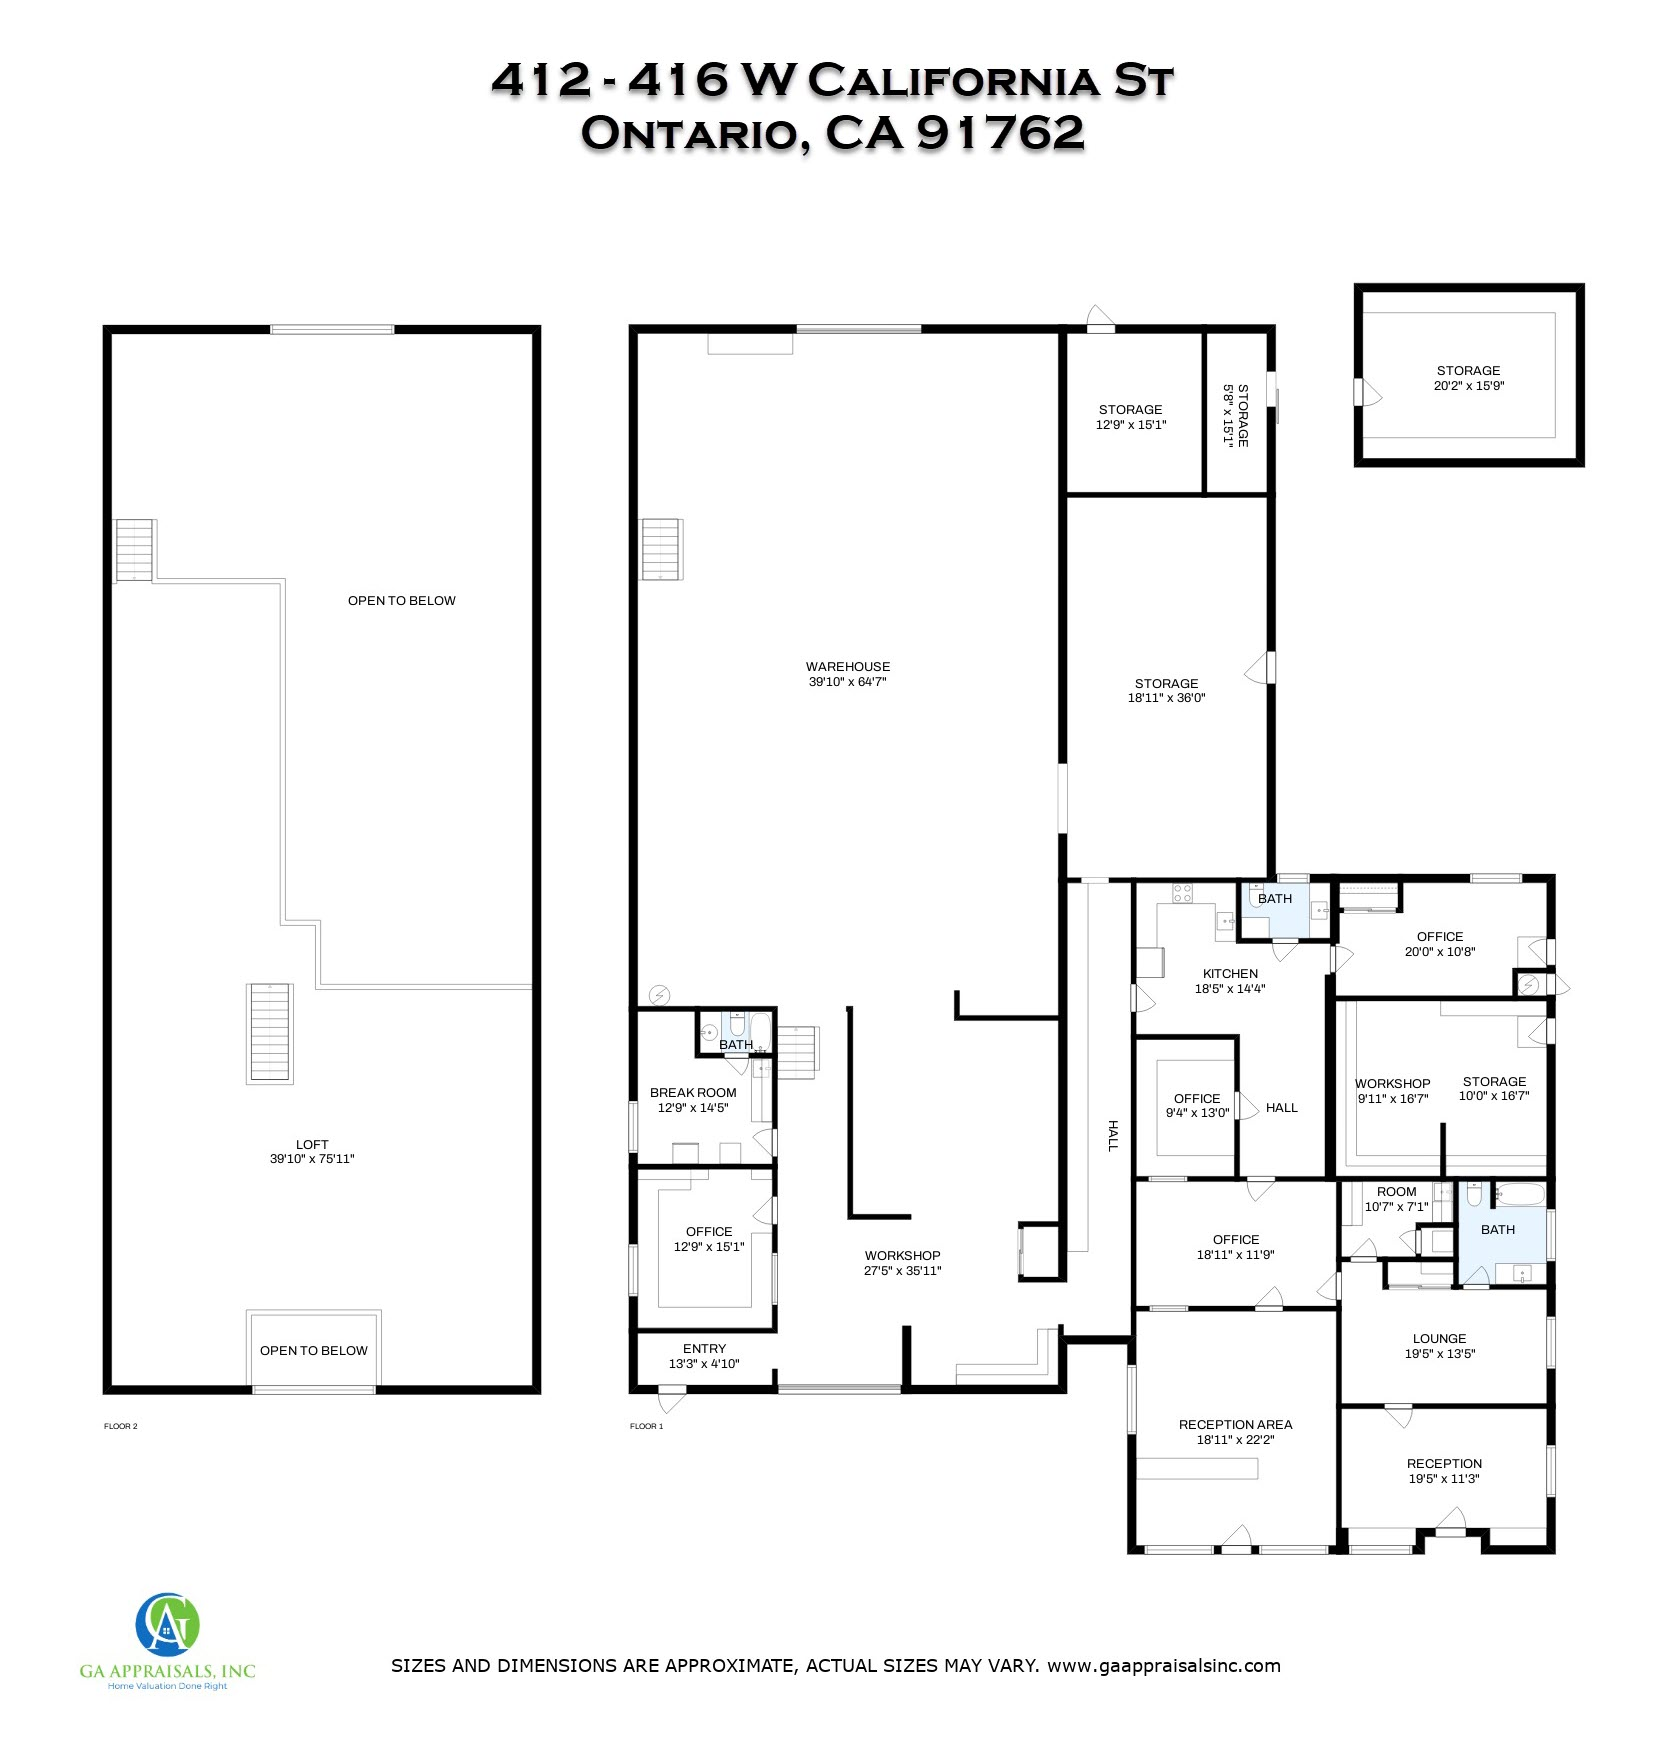
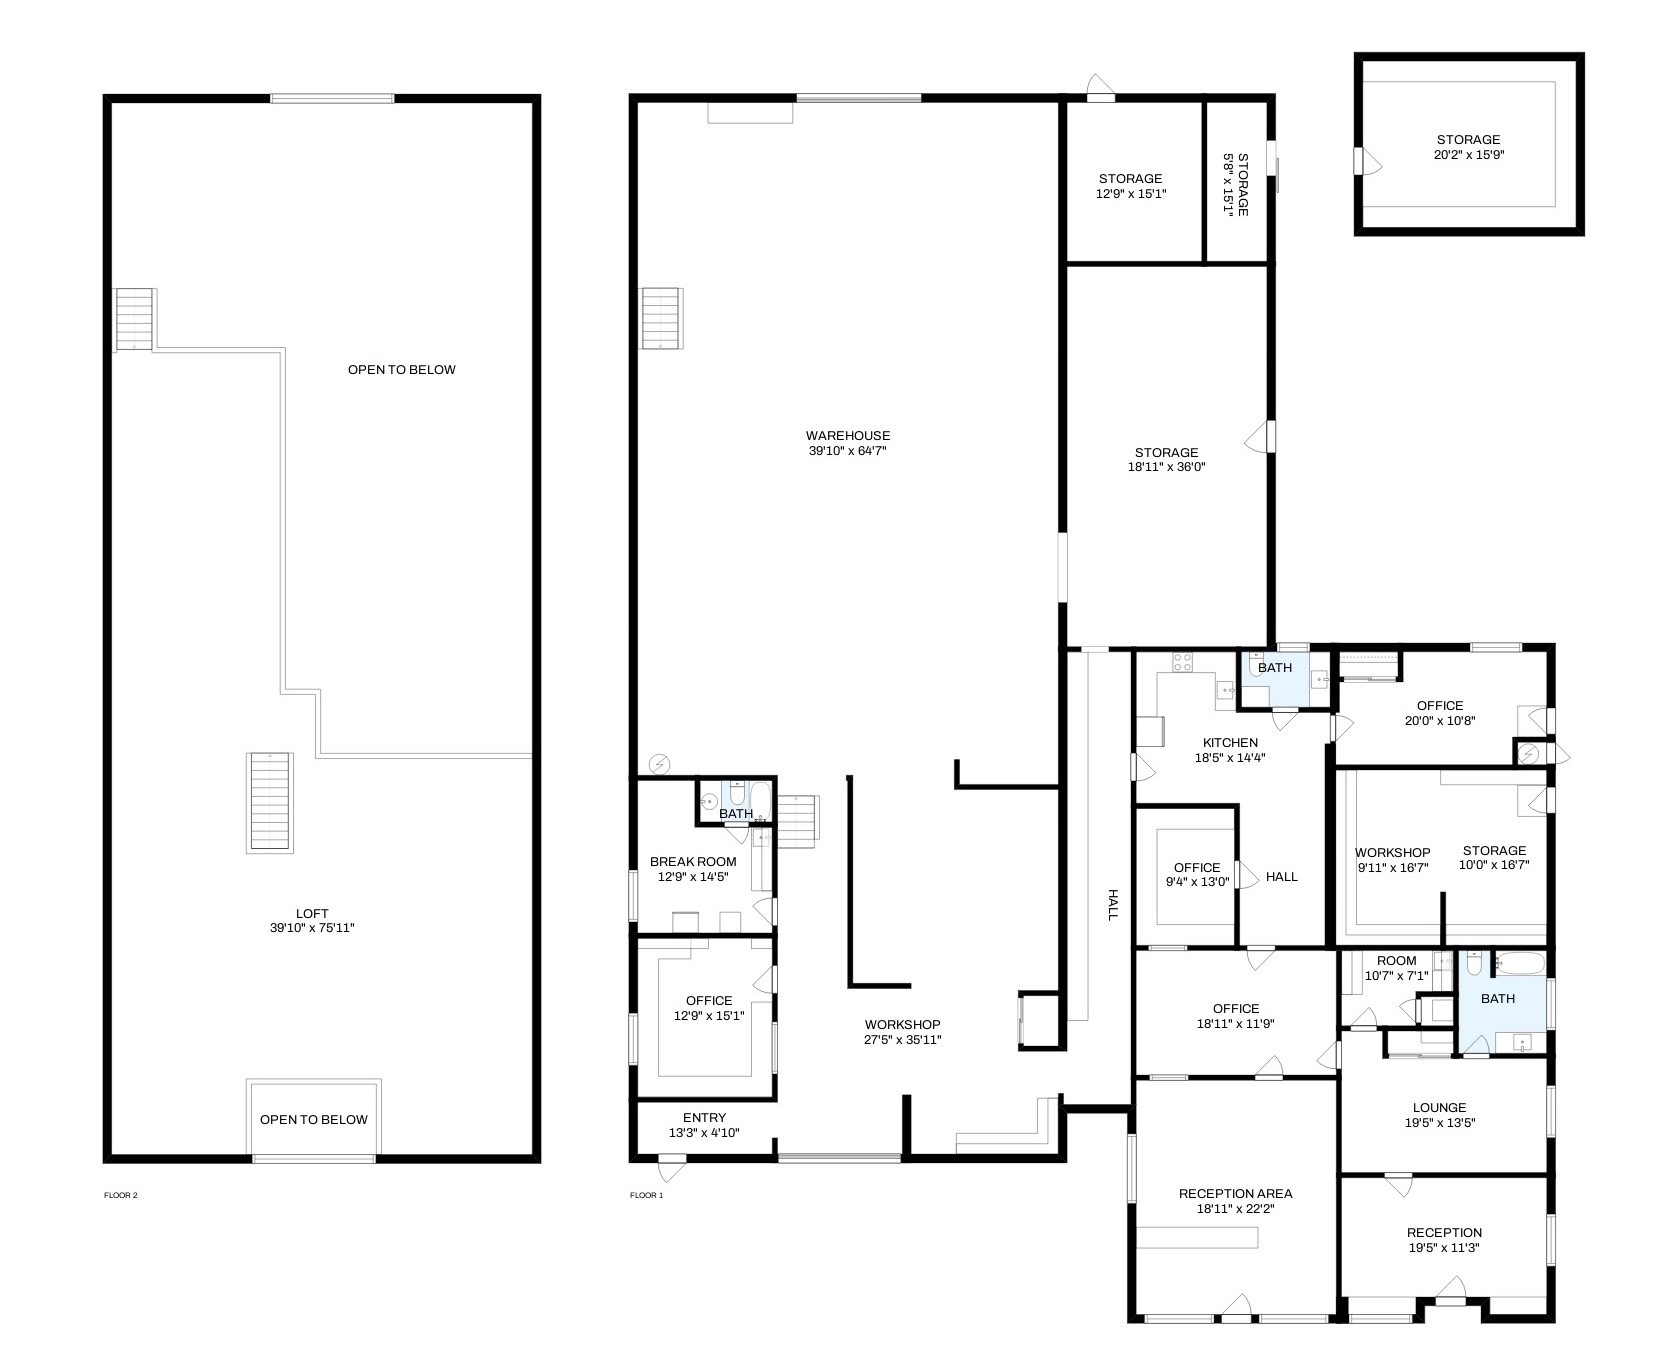
Test adjustments
Adjust property details
Add more images
Add Floor Plan section

diff --git a/index.html b/index.html
@@ -22,6 +22,7 @@
                         <li class="nav-item"><a class="nav-link" href="#highlights">Investment Highlights</a></li>
                         <li class="nav-item"><a class="nav-link" href="#exec-sum">Executive Summary</a></li>
                         <li class="nav-item"><a class="nav-link" href="#photos">Photos</a></li>
+                        <li class="nav-item"><a class="nav-link" href="#floor-plan">Floor Plan</a></li>
                         <li class="nav-item"><a class="nav-link" href="#contact">Contact</a></li>
                     </ul>
                 </div>
@@ -44,12 +45,13 @@
                     <div class="col-lg-8">
                         <h2 class="display-4 fw-bolder">Investment Highlights</h2><br>
                         <h2 class="display-6 fw-bolder">412-416 W. California St. Ontario, CA 91762</h2><hr>
-                        <h5 class="fw-bolder">7898 sqft Building / 18600 sqft Lot | $1,780,000</h2><hr>
+                        <h4 class="fw-bolder">Asking Price : $1,780,000</h2><hr>
+                        <h5 class="fw-bolder">7898 sqft Building / 18600 sqft Lot</h2><hr>
                         <h5 class="fw-bolder">5484 sqft Warehouse</h2><hr>
                         <h5 class="fw-bolder">2546 sqft Office</h2><hr>
                         <h5 class="fw-bolder">400 sqft Separate Storage Room</h2><hr>
                         <ul class="fs-4">
-                          <li>Great Owner user or Investor opportunity.</li>
+                          <li>Great owner, user, or Investor opportunity.</li>
                           <li>Secure fenced parking lot and yard.</li>
                           <li>Highly demanded area.</li>  
                           <li>Includes two lots - for total 18600 sqft.</li>
@@ -72,17 +74,17 @@
                 <div class="row gx-4 justify-content-center">
                     <div class="col-lg-8">
                         <h2 class="display-4 fw-bolder">Executive Summary</h2><br>
-                        <p class="lead fw-bolder">GREAT OPPORTUNITY TO PURCHASE PROPERTY WITH WAREHOUSE STORAGE AND OFFICE LOCATED IN ONTARIO, CA</p><hr>
+                        <p class="lead fw-bolder">GREAT OPPORTUNITY TO PURCHASE PROPERTY WITH WAREHOUSE STORAGE AND OFFICE IN ONTARIO, CA</p><hr>
                         <ul class="fs-4">
                           <p>It is a great opportunity for owner use or investor to generate income.</p>
                           <p>Seller is highly motivated and has priced for quick sale.</p>
-                          <p>5 minutes away from <b>Ontario International Airport</b> and within minutes to 10 Fwy and 60 Fwy.</p><hr>
+                          <p>Minutes away from <b>Ontario International Airport</b> and within minutes to 10 Fwy and 60 Fwy.</p><hr>
 
                           <li>Two parcels being sold together. </li>
                           <li>#412 is 9750 sq ft lot with 2560 sq ft office with a separate 400 sqft storage room.</li>
                           <li>#416 is 8850 sq ft lot with 5338 sq ft storage warehouse with 2241 sqft second floor.</li>
                           <li>Single large property comprised of two lots for a total of 18600 sqft.</li>
-                          <li>Efficient office layout with private offices and full kitchen.</li>
+                          <li>Efficient office layout with private offices, restrooms, and full kitchen.</li>
                           <li>Alley entry via large back yard, front loading dock and fully fenced.</li>
                         </ul><br>
                     </div>
@@ -96,68 +98,78 @@
           <div class="slideshow-container">
             <!-- Full-width images with number and caption text -->
             <div class="mySlides fade">
-              <div class="numbertext">1 / 13</div>
+              <div class="numbertext">1 / 15</div>
               <img src="./assets/outside.jpg" style="width:100%">
             </div>
 
             <div class="mySlides fade">
-              <div class="numbertext">2 / 13</div>
+              <div class="numbertext">2 / 15</div>
               <img src="./assets/entrance_wh.jpg" style="width:100%">
             </div>
 
             <div class="mySlides fade">
-              <div class="numbertext">3 / 13</div>
+              <div class="numbertext">3 / 15</div>
+              <img src="./assets/ext_wh.jpg" style="width:100%">
+            </div>
+
+            <div class="mySlides fade">
+              <div class="numbertext">4 / 15</div>
               <img src="./assets/ext_gate.jpg" style="width:100%">
             </div>
             
             <div class="mySlides fade">
-              <div class="numbertext">4 / 13</div>
+              <div class="numbertext">5 / 15</div>
               <img src="./assets/ext_gate2.jpg" style="width:100%">
             </div>
 
             <div class="mySlides fade">
-              <div class="numbertext">5 / 13</div>
+              <div class="numbertext">6 / 15</div>
               <img src="./assets/ext_side.jpg" style="width:100%">
             </div>
 
             <div class="mySlides fade">
-              <div class="numbertext">6 / 13</div>
+              <div class="numbertext">7 / 15</div>
               <img src="./assets/int_entrance.jpg" style="width:100%">
             </div>
 
             <div class="mySlides fade">
-              <div class="numbertext">7 / 13</div>
+              <div class="numbertext">8 / 15</div>
               <img src="./assets/int_kitchen.jpg" style="width:100%">
             </div>
 
             <div class="mySlides fade">
-              <div class="numbertext">8 / 13</div>
+              <div class="numbertext">9 / 15</div>
               <img src="./assets/int_lobby.jpg" style="width:100%">
             </div>
 
             <div class="mySlides fade">
-              <div class="numbertext">9 / 13</div>
+              <div class="numbertext">10 / 15</div>
               <img src="./assets/int_office.jpg" style="width:100%">
             </div>
 
             <div class="mySlides fade">
-              <div class="numbertext">10 / 13</div>
+              <div class="numbertext">11 / 15</div>
               <img src="./assets/int_office2.jpg" style="width:100%">
             </div>
 
             <div class="mySlides fade">
-              <div class="numbertext">11 / 13</div>
+              <div class="numbertext">12 / 15</div>
               <img src="./assets/int_restroom.jpg" style="width:100%">
             </div>
 
             <div class="mySlides fade">
-              <div class="numbertext">12 / 13</div>
+              <div class="numbertext">13 / 15</div>
               <img src="./assets/int_storage.jpg" style="width:100%">
             </div>
 
             <div class="mySlides fade">
-              <div class="numbertext">13 / 13</div>
+              <div class="numbertext">14 / 15</div>
               <img src="./assets/int_warehouse.jpg" style="width:100%">
+            </div>
+
+            <div class="mySlides fade">
+              <div class="numbertext">15 / 15</div>
+              <img src="./assets/int_warehouse2.jpg" style="width:100%">
             </div>
 
             <!-- Next and previous buttons -->
@@ -181,9 +193,23 @@
             <span class="dot" onclick="currentSlide(11)"></span>
             <span class="dot" onclick="currentSlide(12)"></span>
             <span class="dot" onclick="currentSlide(13)"></span>
+            <span class="dot" onclick="currentSlide(14)"></span>
+            <span class="dot" onclick="currentSlide(15)"></span>
           </div>
         </section>
 
+        <!-- Floor Plan section-->
+        <section id="floor-plan">
+          <div class="px-4">
+              <div class="row gx-4 justify-content-center">
+                  <div class="col-lg-8">
+                      <h2 class="display-4 fw-bolder">Floor Plan</h2><br>
+                      <img class="container" src="./assets/floorplan.jpg">
+                      </ul><br>
+                  </div>
+              </div>
+          </div>
+      </section>
         
         <!-- Contact section-->
         <section id="contact">
@@ -195,7 +221,7 @@
                         <p class="lead">J Star Investment Inc.</p>
                         <p class="lead">11742 Clark St. #A Arcadia, CA 91006</p>
                         <p class="lead">BRE#: 00995493</p>
-                        <p class="lead">626-445-8066</p>
+                        <p class="lead"><a href="tel:+16264458066">626-445-8066</a></p>
                         <p class="lead"><a href="mailto:jstarinvestment@gmail.com">jstarinvestment@gmail.com</a></p><hr>
                     </div>
                     <div class="contact-col"><hr>
@@ -203,12 +229,13 @@
                         <p class="lead">COMPASS</p>
                         <p class="lead">680 E. Colorado Blvd. Suite 150 & 400 Pasadena, CA 91101</p>
                         <p class="lead">DRE#: 01005527</p>
-                        <p class="lead"><a href="tel:6266436666">626-643-6666</a></p>
+                        <p class="lead"><a href="tel:+16266436666">626-643-6666</a></p>
                         <p class="lead"><a href="mailto:pearl.chen@compass.com">pearl.chen@compass.com</a></p><hr>
                     </div>
                 </div>
             </div>
         </section>
+        
         <!-- Footer-->
         <footer class="py-5 bg-dark">
             <div class="container px-4"><p class="m-0 text-center text-white">Copyright &copy; J Star Investment Inc. 2022</p></div>
